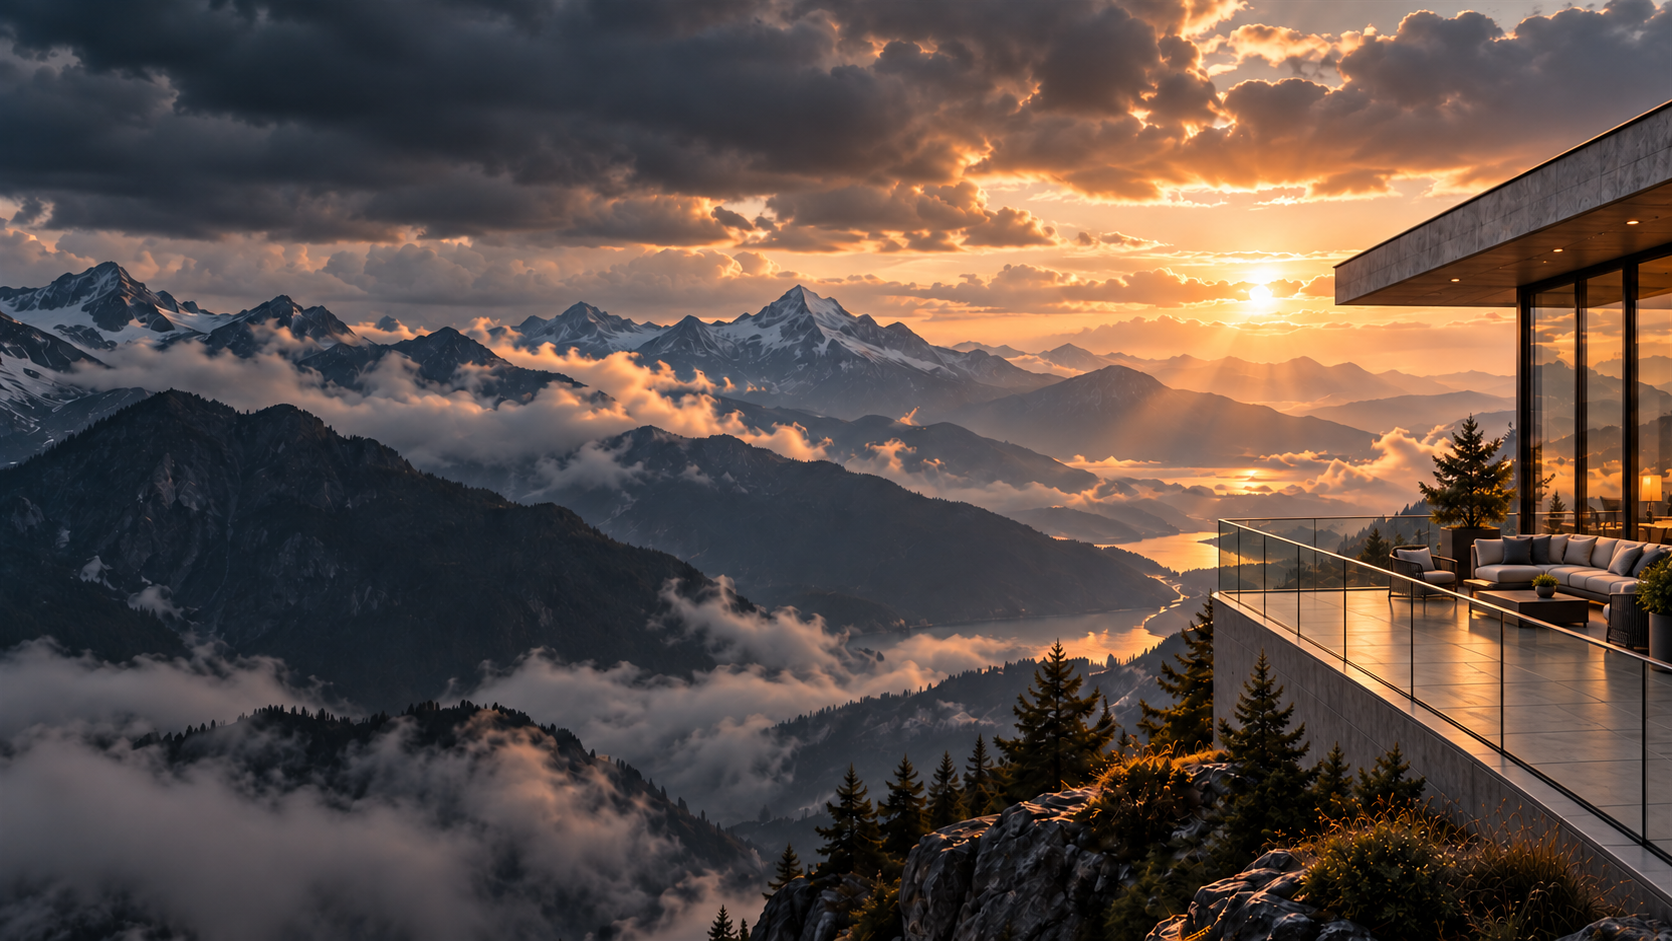
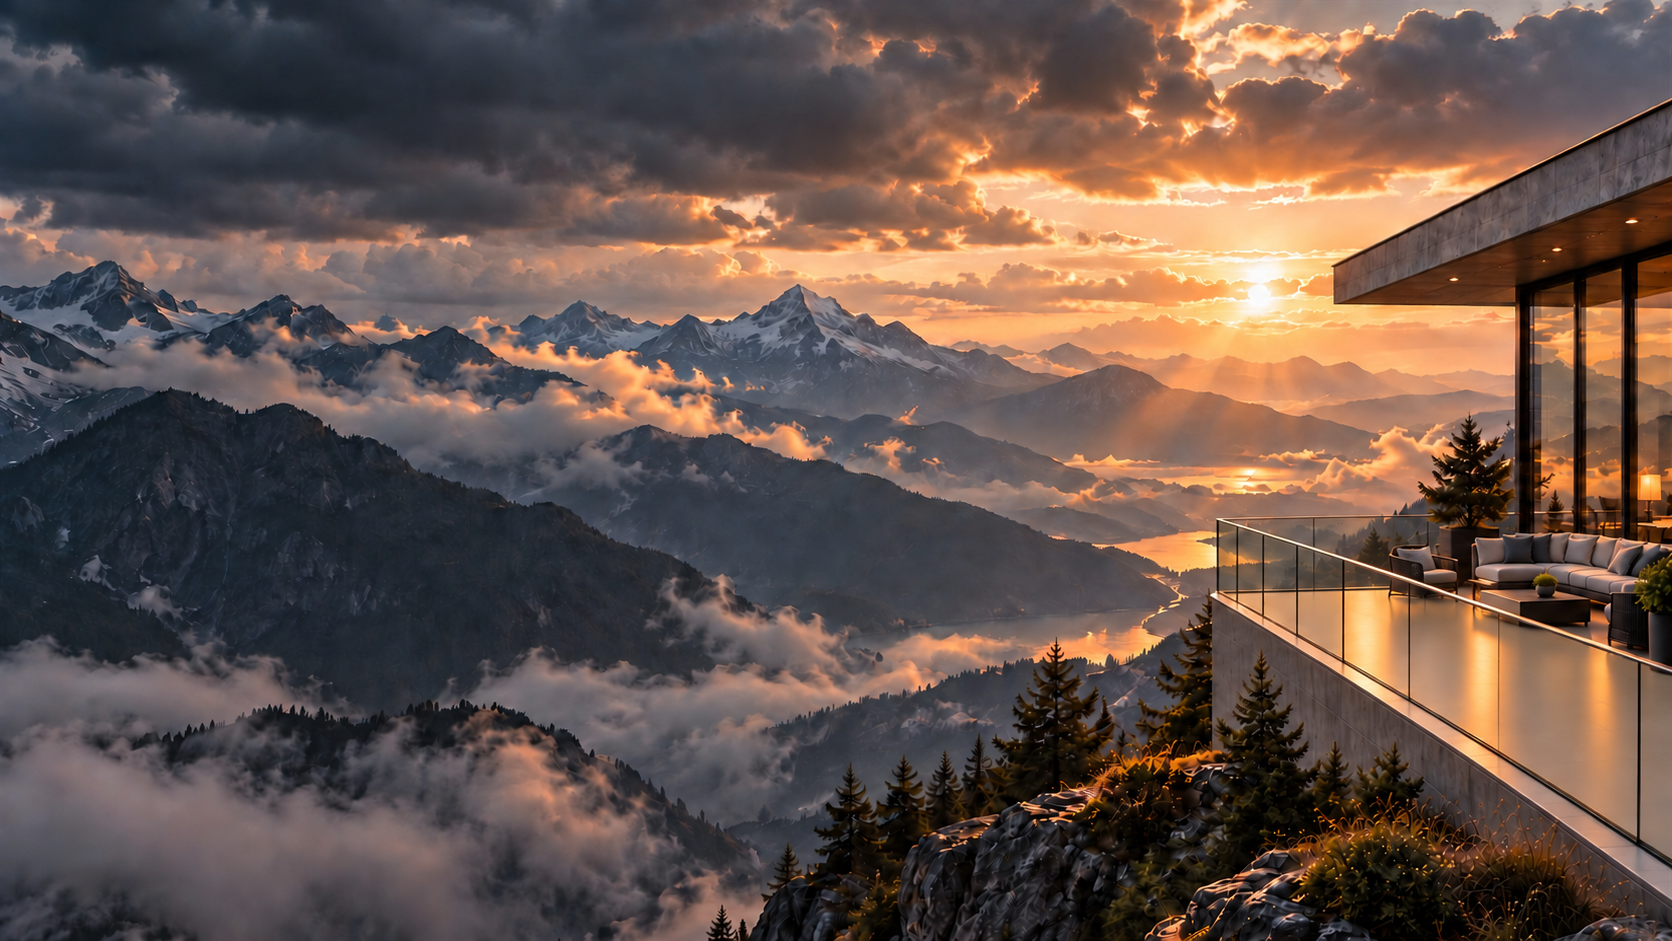
fix(marketing): publicar fundo oficial da varanda

diff --git a/public/assets/css/modules/showcase/showcase.css b/public/assets/css/modules/showcase/showcase.css
@@ -708,7 +708,7 @@
 .showcase-page .showcase-nav-access { color: #f6f1e8 !important; font-size: 8px; }
 .showcase-page .showcase-nav-access { padding: 9px 12px; border: 1px solid rgb(246 241 232 / 70%); border-radius: 2px; background: rgb(246 241 232 / 88%); color: #252723 !important; font-weight: 700; letter-spacing: .1em; }
 .showcase-page .showcase-nav-access:hover { background: #d6b477; }
-.immersive-hero { position: relative; display: flex; height: 940px; min-height: 940px; overflow: hidden; border: 0; background: #242a2d url("../../../images/fokus-cloud-hero-immersive.png?v=20260915-terrace-v2") center / cover no-repeat; }
+.immersive-hero { position: relative; display: flex; height: 940px; min-height: 940px; overflow: hidden; border: 0; background: #242a2d url("../../../images/fokus-cloud-hero-immersive.png?v=20260915-terrace-v3") center / cover no-repeat; }
 .immersive-hero-overlay { position: absolute; inset: 0; background: linear-gradient(90deg, rgb(6 13 18 / 76%) 0%, rgb(10 17 21 / 38%) 44%, rgb(8 13 15 / 5%) 100%), linear-gradient(0deg, rgb(5 9 11 / 70%) 0%, transparent 38%, rgb(8 13 15 / 20%) 100%); }
 .immersive-hero-content { position: relative; z-index: 1; align-self: end; padding: 0 0 48px 36px; }
 .immersive-hero-kicker { display: block; margin-bottom: 12px; color: #d6b477; font-size: 8px; font-weight: 700; letter-spacing: .26em; }
